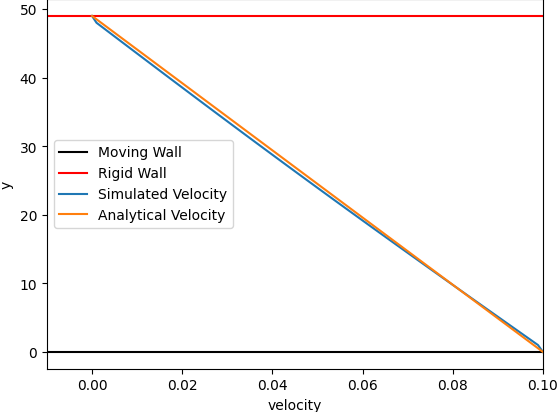
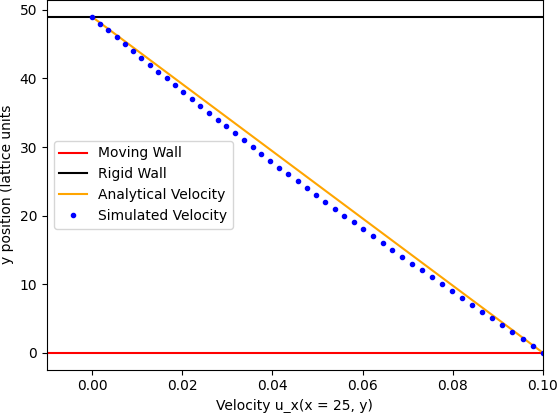
visual change for plotting

diff --git a/plot.py b/plot.py
@@ -5,6 +5,12 @@ from scipy.optimize import curve_fit
 from scipy.signal import argrelextrema
 
 PATH = "results"
+COLORS = ["orange", "blue"]
+ANALYTIC = 0
+SIMULATION = 1
+VELOCITY = 2
+DENSITY = 3
+
 
 
 class Plotter:
@@ -31,7 +37,7 @@ class Plotter:
         if experiment == "density":
             self.axes[0].cla()
             self.axes[0].set_ylim([-epsilon + p0, epsilon + p0])
-            self.axes[0].plot(np.arange(nx), rho.T[ny//2, :])
+            self.axes[0].plot(np.arange(nx), rho[:, ny//2])
             self.axes[0].set_xlabel('x')
             self.axes[0].set_ylabel('density')
             save_path = os.path.join(
@@ -78,14 +84,14 @@ class Plotter2:
 
         self.axes[0].cla()
         self.axes[0].set_xlim([-0.01, wall_velocity[1]])
-        self.axes[0].axhline(0.0, color='k')
-        self.axes[0].axhline(ny-1, color='r')
-        self.axes[0].plot(velocities[0, nx//2, :], y)
-        self.axes[0].plot(analytical, y)
-        self.axes[0].set_ylabel('y')
-        self.axes[0].set_xlabel('velocity')
-        self.axes[0].legend(['Moving Wall', 'Rigid Wall',
-                             'Simulated Velocity', 'Analytical Velocity'])
+        self.axes[0].axhline(0.0, color='red')
+        self.axes[0].axhline(ny-1, color='black')
+        self.axes[0].plot(analytical, y, color=COLORS[ANALYTIC])
+        self.axes[0].plot(velocities[0, nx//2, :], y, '.', color=COLORS[SIMULATION])
+        self.axes[0].set_ylabel('y position (lattice units')
+        self.axes[0].set_xlabel('Velocity u_x(x = 25, y)')
+        self.axes[0].legend(['Moving Wall', 'Rigid Wall', 
+                             'Analytical Velocity','Simulated Velocity'])
         save_path = os.path.join(self.path, f'couette_flow_{step}')
         self.figs[0].savefig(save_path, bbox_inches='tight', pad_inches=0)
 
@@ -108,11 +114,10 @@ class Plotter3:
         analytical = (-0.5 * partial_derivative * y *
                       (ny - 1 - y)) / dynamic_viscosity
         # axes[0].set_xlim([0, np.max(analytical) + 0.001])
-
-        self.axes[0].plot(velocities[0, nx//2, :], y)
-        self.axes[0].plot(analytical, y)
+        self.axes[0].plot(analytical, y, COLORS[ANALYTIC])
+        self.axes[0].plot(velocities[0, nx//2, :], y, '.', COLORS[SIMULATION])
         self.axes[0].set_ylabel('y')
         self.axes[0].set_xlabel('velocity')
-        self.axes[0].legend(['Simulated', 'Analytical'])
+        self.axes[0].legend(['Analytical','Simulated'])
         save_path = os.path.join(self.path, f'pousielle_flow_{step}')
         self.figs[0].savefig(save_path, bbox_inches='tight', pad_inches=0)
